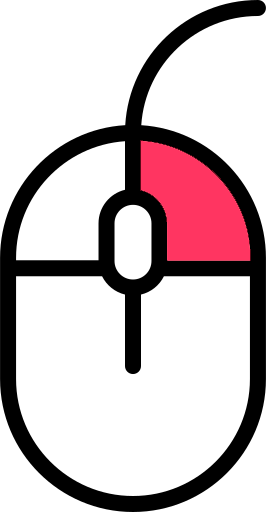
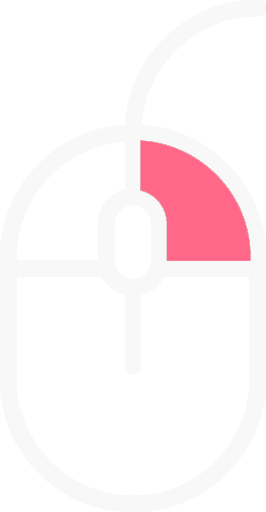
commit

Changed region(s): [[0.0, 0.0, 1.0, 1.0]]

diff --git a/src/style.css b/src/style.css
@@ -8,6 +8,7 @@
 
 :root {
   --color-primary: #00d1b2;
+  --color-primary08: #00d1b2cc;
 
   --color-black: #0a0a0a;
   --color-black08: #0a0a0acc;
@@ -19,53 +20,82 @@
   --color-fontP: #f5f5f593;
 }
 
+::-webkit-scrollbar {
+  width: 0.5rem;
+}
+::-webkit-scrollbar-track {
+  background-color: var(--color-black08);
+  border-radius: 0.1rem;
+}
+::-webkit-scrollbar-thumb {
+  background-color: var(--color-primary08);
+  border-radius: 0.1rem;
+}
+
+::-webkit-scrollbar-thumb:hover {
+  background-color: var(--color-primary);
+}
+
 body {
-  height: 60rem;
+  min-height: 100vh;
   gap: 5rem;
 }
 header {
   width: 100%;
+  margin-bottom: 2.5rem;
 }
 header .logo {
   min-width: 8rem;
   user-select: none;
+  gap: 0.2rem;
 }
 
-header .inputArea input {
+.formArea {
   position: absolute;
+  display: flex;
+  align-items: center;
+  justify-content: center;
   top: 8rem;
   left: 50%;
   transform: translate(-50%, -50%);
+  width: 100%;
+  height: 8rem;
+}
+
+header .inputArea input {
   width: 20rem;
+  height: 2.5rem;
   background: var(--color-dark08);
   color: var(--color-font1);
 }
 
+.inputArea input::selection {
+  background: var(--color-primary);
+}
 header .inputArea input::placeholder {
   font-weight: 500;
   color: var(--color-fontP);
 }
 
-header .chooseTheme {
-  width: 6rem;
-}
-header .chooseTheme .radio {
-  text-align: center;
-  width: 2rem;
-}
 .radio ion-icon:hover {
   color: var(--color-primary);
   transition: all 0.3s ease-in-out;
   transform: scale(1.1);
 }
-header .chooseTheme .radio input {
-  display: none;
-  width: 0;
+header button:hover {
+  transform: scale(1.1);
+}
+header .dark,
+header .light {
+  font-size: 1.2rem;
 }
 
 main {
-  margin-top: 4rem;
   width: 100%;
+  min-height: 22.5rem;
+  background: url(./assets/bg-main.png) center/cover no-repeat;
+  border: 2px solid var(--color-primary);
+  overflow: hidden;
 }
 
 main .tasks li {
@@ -74,6 +104,10 @@ main .tasks li {
   font-size: 1.5rem;
   cursor: pointer;
   background: var(--color-black08);
+}
+
+.tasks li p::selection {
+  background: var(--color-primary);
 }
 
 main .tasks li.completed .tasksEl {
@@ -96,7 +130,7 @@ main .tasks li .trash::after {
   content: '';
   position: relative;
   bottom: 1.5rem;
-  background: url(./assets/holdred1.png) center/cover no-repeat;
+  background: url(./assets/holdred.png) center/cover no-repeat;
   object-fit: contain;
   width: 1rem;
   height: 2rem;
@@ -106,13 +140,40 @@ main .tasks li .trash span {
   top: 75%;
 }
 
-@media (min-width: 1080px) {
+footer {
+  width: 100%;
+  max-height: 4rem;
+}
+
+@media (min-width: 1280px) {
+  .formArea {
+    position: relative;
+    top: 0rem;
+    left: 0%;
+    transform: translate(0%, 0%);
+    width: auto;
+    height: 2.5rem;
+  }
+
+  header .inputArea input {
+    width: 60rem;
+    height: 2.5rem;
+    background: var(--color-dark08);
+    color: var(--color-font1);
+  }
+
+  main {
+    position: relative;
+    top: -5rem;
+    width: 90%;
+    min-height: 28rem;
+  }
   main .tasks li .trash {
     justify-content: space-around;
     gap: 0;
   }
   main .tasks li .trash::after {
-    background: url(./assets/mousered1.png) center/cover no-repeat;
+    background: url(./assets/mousered.png) center/cover no-repeat;
     width: 1.5rem;
     height: 1.5rem;
   }

diff --git a/index.html b/index.html
@@ -17,54 +17,53 @@
     <title>Tasks!</title>
   </head>
   <body
-    class="has-background-dark is-flex is-align-items-center is-flex-direction-column"
+    class="has-background-dark is-flex is-align-items-center is-flex-direction-column is-justify-content-space-between"
   >
     <header
       class="header p-4 is-flex is-justify-content-space-between is-align-items-center has-background-black"
     >
       <div class="logo is-flex is-align-items-center is-justify-content-center">
         <ion-icon
-          class="is-size-2 has-text-primary"
+          class="checkLogo is-size-2 has-text-primary"
           name="checkmark-done-circle-outline"
         ></ion-icon>
-        <p class="titleHeader title is-4 has-text-link-light">Tasks!</p>
+        <p class="titleHeader title is-4 has-text-white-ter">Tasks!</p>
       </div>
 
-      <form id="form" class="inputArea">
-        <input
-          id="input"
-          class="input is-primary"
-          type="text"
-          placeholder="Digite aqui sua tarefa"
-          autocomplete="off"
-        />
-      </form>
+      <div class="formArea">
+        <form id="form" class="inputArea">
+          <input
+            id="input"
+            class="input is-primary"
+            type="text"
+            placeholder="Digite aqui sua tarefa"
+            autocomplete="off"
+          />
+        </form>
+      </div>
 
-      <!--  <div class="chooseTheme control">
-        <label for="dark">
-          <input type="radio" name="toggle" id="dark" />
-        </label>
-        <label for="light">
-          <input type="radio" name="toggle" id="light" />
-        </label>
-      </div> -->
+      <p class="buttons">
+        <button class="button is-small is-black has-text-primary">
+          <span class="dark icon is-small">
+            <ion-icon name="moon-sharp"></ion-icon>
+          </span>
+        </button>
+      </p>
     </header>
-    <main id="main" class="panel is-black">
+    <main id="main" class="panel">
       <ul id="tasks" class="tasks"></ul>
     </main>
-    <footer>
-      <a href="https://carloscunha611.github.io/portfolio/" target="_blank">
-        <img
-          class="logoC"
-          src="./src/assets/logoC.png"
-          alt="Logo do Portfólio"
-        />
-      </a>
-      <div>
-        <p>
-          Dev. by <span>C</span>arlos <span>C</span>unha <span>Jr</span>. &copy;
-          2023
-        </p>
+
+    <footer id="footer" class="footer has-background-black">
+      <div class="content has-text-centered">
+        <p>Dev. by <strong>Carlos Cunha Jr</strong>. &copy; 2023</p>
+        Acesse o meu
+        <a
+          class="linkPort has-text-primary"
+          href="https://carloscunha611.github.io/portfolio/"
+          target="_blank"
+          >portfólio</a
+        >
       </div>
     </footer>
     <!-- Scripts -->

diff --git a/src/main.js b/src/main.js
@@ -80,12 +80,59 @@ function updateLocalStorage() {
   localStorage.setItem('tasks', JSON.stringify(tasks))
 }
 
-const chooseTheme = document.querySelector('.chooseTheme')
-chooseTheme.addEventListener('click', () => {
-  const classBody = document.body.classList
-  classBody.toggle(
-    classBody.contains('has-background-dark')
-      ? 'has-background-light'
-      : 'has-background-dark'
+const button = document.querySelector('.button')
+
+button.addEventListener('click', () => {
+  const currentIcon = button.innerHTML
+  const light =
+    '<span class="light icon is-small"><ion-icon name="sunny-sharp"></ion-icon></span>'
+  const dark =
+    '<span class="dark icon is-small"><ion-icon name="moon-sharp"></ion-icon></span>'
+  const header = document.querySelector('.header')
+  const titleHeader = document.querySelector('.titleHeader')
+  const checkLogo = document.querySelector('.checkLogo')
+  const linkPort = document.querySelector('.linkPort')
+  const footer = document.querySelector('#footer')
+
+  if (currentIcon.includes('sunny-sharp')) {
+    button.innerHTML = dark
+    document.body.classList.add('has-background-dark')
+    document.body.classList.remove('has-background-light')
+
+    button.classList.add('is-black', 'has-text-primary')
+    button.classList.remove('is-light')
+
+    header.classList.add('has-background-black')
+    header.classList.remove('has-background-grey-light')
+    footer.classList.add('has-background-black')
+    footer.classList.remove('has-background-grey-light')
+
+    checkLogo.classList.add('has-text-primary')
+    checkLogo.classList.remove('has-text-dark')
+    titleHeader.classList.add('has-text-white-ter')
+    titleHeader.classList.remove('has-text-dark')
+  } else {
+    button.innerHTML = light
+    document.body.classList.add('has-background-light')
+    document.body.classList.remove('has-background-dark')
+
+    button.classList.add('is-light')
+    button.classList.remove('is-black', 'has-text-primary')
+
+    header.classList.add('has-background-grey-light')
+    header.classList.remove('has-background-black')
+    footer.classList.add('has-background-grey-light')
+    footer.classList.remove('has-background-black')
+
+    checkLogo.classList.add('has-text-dark')
+    checkLogo.classList.remove('has-text-primary')
+    titleHeader.classList.add('has-text-dark')
+    titleHeader.classList.remove('has-text-white-ter')
+  }
+
+  linkPort.classList.toggle(
+    linkPort.classList.contains('has-text-primary')
+      ? `has-text-danger`
+      : `has-text-primary`
   )
 })

diff --git a/README.md b/README.md
@@ -1,17 +1,18 @@
-### [App](https://carloscunha611.github.io/toDo-app/)
+### [ToDo App](https://carloscunha611.github.io/toDo-app/)
 
 <div align="center">
-    <img src="./src/assets/logo.png" alt="Preview" width="256">
+    <img src="./src/assets/logoW.png" alt="Preview" width="256">
 </div>
 
-> Este é um aplicativo de lista de tarefas, desenvolvido utilizando as tecnologias JavaScript, CSS e HTML.
+> Este é um aplicativo de lista de tarefas, desenvolvido utilizando as tecnologias JavaScript, CSS, HTML e Bulma.
 
 ## Funcionalidades e Descrições
 
 - Site otimizado para acesso em dispositivos móveis, tablets e desktops.
-- CRUD todos
-- localStorage
--
+- Tema claro e escuro.
+- Salvamento das tarefas no armazenamento local (localStorage).
+- Você pode marcar uma tarefa como concluída clicando nela ou tocando nela em dispositivos com tela sensível ao toque.
+- Você pode remover uma tarefa clicando com o botão direito ou segurando o toque em dispositivos com tela sensível ao toque.
 
 <div align="center">
     <img src=".github/preview.png" alt="Preview" width="320">
@@ -23,7 +24,7 @@
 - CSS3
 - JavaScript
 - Git / GitHub
-- Biblioteca: [NomeDaBiblioteca](link)
+- Framework CSS: [Bulma](https://bulma.io/)
 
 ## 🔗 Portfólio e Links
 
@@ -31,7 +32,7 @@
   <a href="https://carloscunha611.github.io/portfolio/">
     <img src=".github/logoC.png" width="32" alt="Meu Portfólio">
   </a>
-  <a href="https://carloscunha611.github.io/note-app/">
+  <a href="https://carloscunha611.github.io/toDo-app/">
     <img src="src/assets/favicon.png" alt="Link do Projeto" width="32">
   </a>
 </div>
